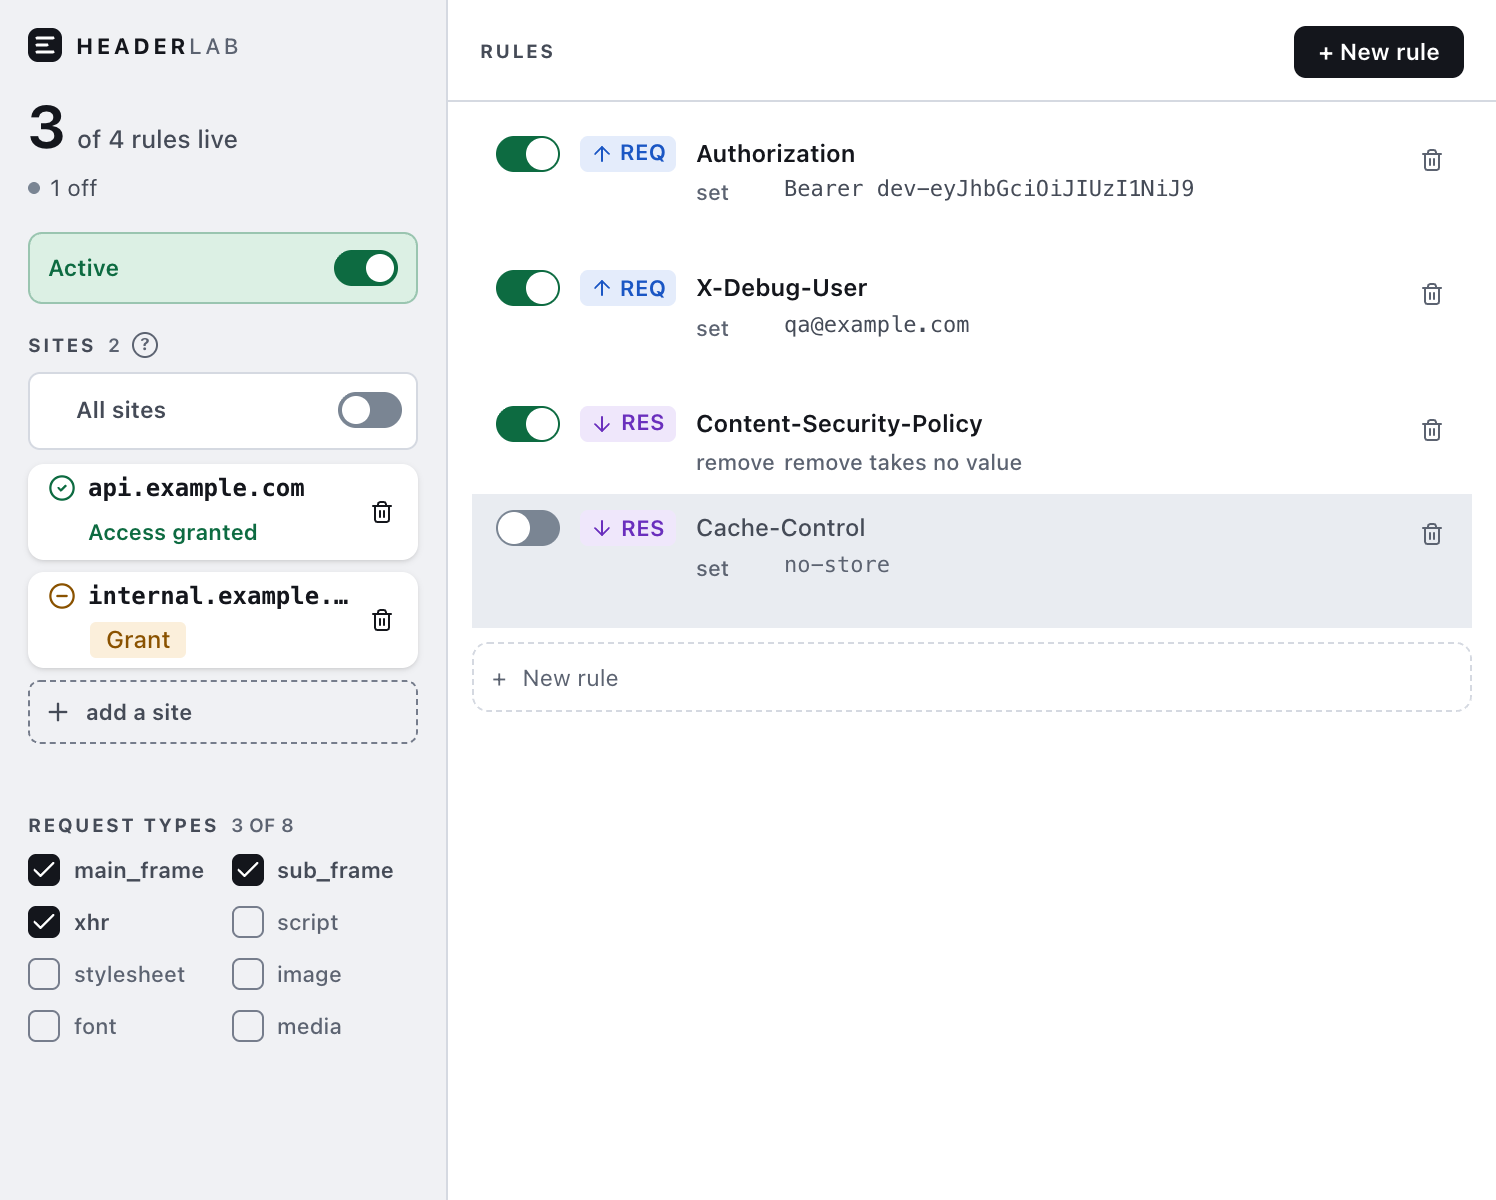
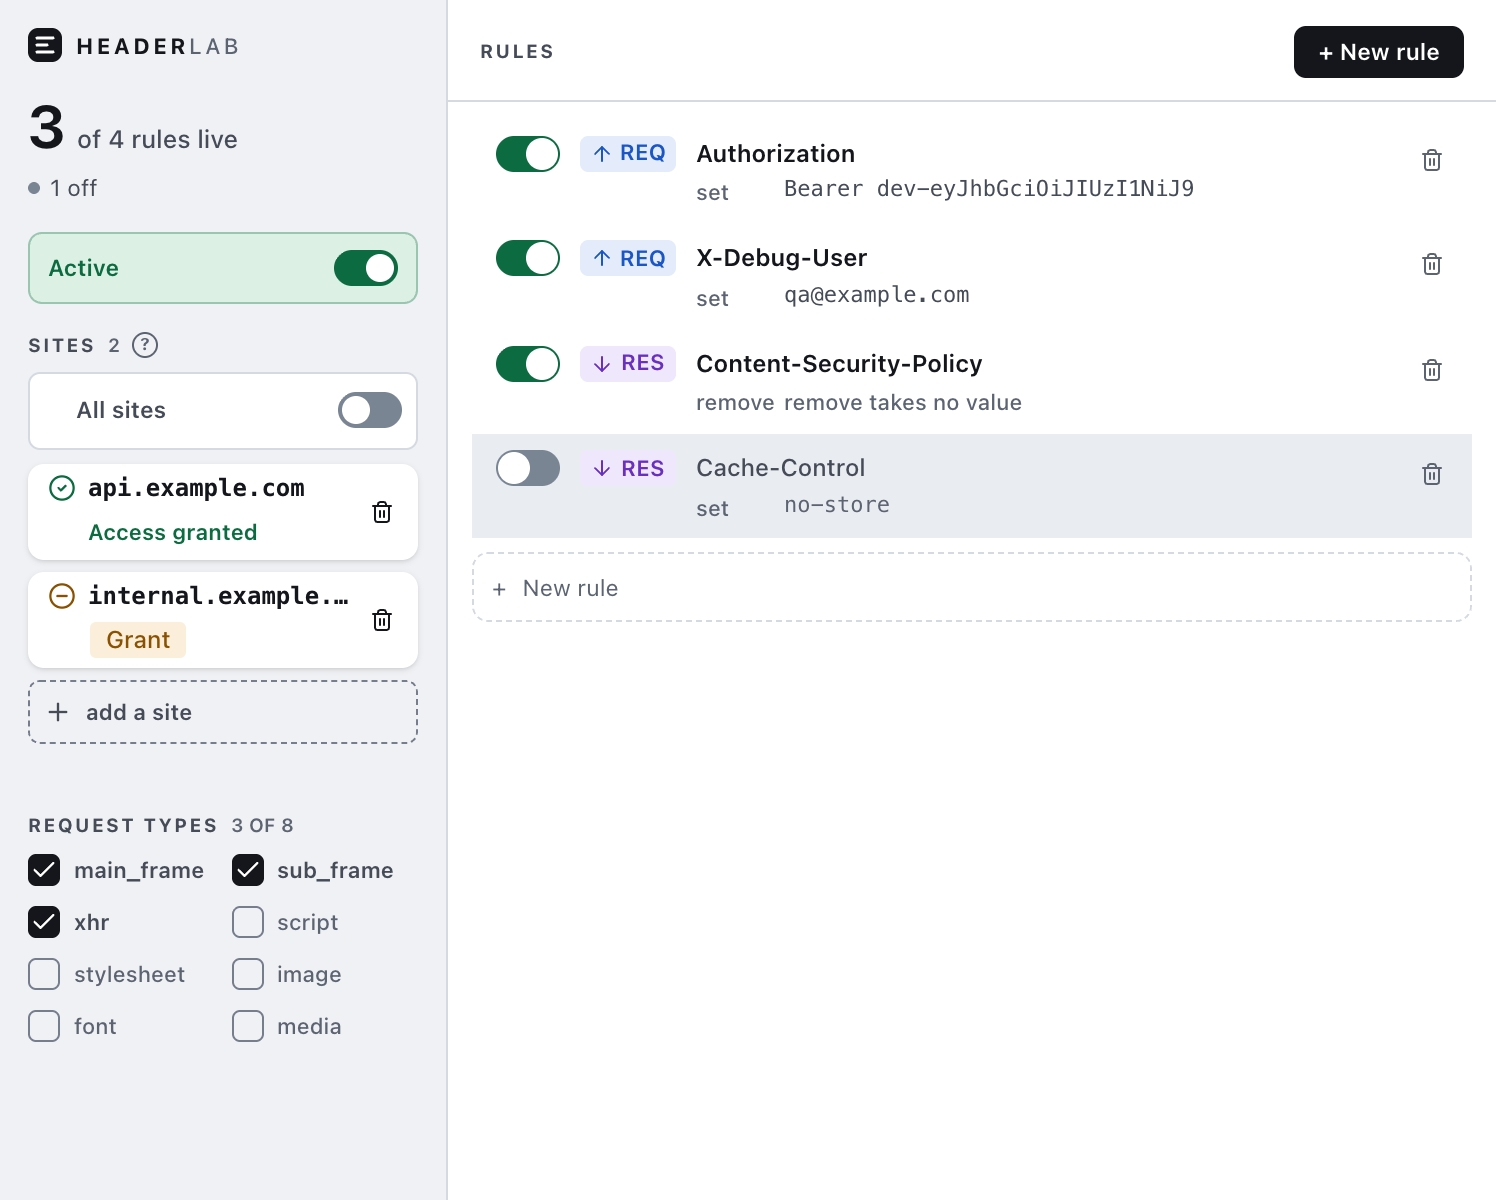
fix: 값 필드의 min-height 바닥을 걷어낸다
지난 커밋에서 min-height: 30px 와 max-height: 96px 를 둘 다 예전 필드에서
그대로 되살렸다 — "둘 다 복원하라"는 지시를 문자 그대로 따른 결과였다.
그런데 96px 캡은 오너의 줄바꿈 판단을 직접 섬기지만(감싸다가 어느 선을
넘으면 안에서 스크롤), 30px 바닥은 그 판단과 무관하다 — 옛 필드의 패딩
있는 12px 박스를 위한 숫자였고, 지금의 테두리·패딩 없는 컴팩트 레이아웃엔
지킬 게 없다. 실측이 그 차이를 드러냈다: 짧은 값 행이 51.5px 에서 66.5px
로 늘어났는데, 대부분의 행이 짧은 값을 가지므로 오너가 이번 리디자인
전체에서 고른 조밀함과 정반대 방향의 비용이었다.

min-h-[30px] 만 지운다. max-h-24 와 overflow-y-auto 는 그대로 둔다. 빈
값의 클릭 타깃은 높이가 아니라 min-w-0 flex-1 이 이미 주는 ~250px 너비가
쥐고 있어 바닥이 없어도 좁아지지 않는다.

재보니 짧은 행은 정확히 51.5px 로 돌아왔다 — 라운드 2 가 처음 쟀던 값과
같다 — 긴 값(536자 CSP, 캡 있음)은 132.5px 로 그대로다. 바닥만 없앤 게
맞다는 뜻이다.

Claude-Session: https://claude.ai/code/session_01AoJqsjMCtVNteQQZDrLcrG

Changed region(s): [[0.3075, 0.185, 0.6765, 0.4933], [0.3382, 0.555, 0.3997, 0.5858], [0.9532, 0.2158, 0.984, 0.2467]]

diff --git a/components/RuleCard.tsx b/components/RuleCard.tsx
@@ -179,13 +179,25 @@ export function RuleCard({ rule, diagnostics, onPatch, onDelete, autoFocus }: Ru
                 aria-label="Header value"
                 data-testid="rule-value"
                 rows={1}
-                /* min/max restored from the pre-mockup field (69bf230) — the
-                   owner's ruling was "값이 감싸지게(예전 방식)", the previous
-                   way, which capped growth and let a very long value scroll
-                   inside itself rather than growing without bound. Dropping
-                   the cap was found in review: a realistic 536-character
-                   value made one row 232.5px tall, 42% of the popup's own
-                   height. `max-h-24` (96px) is `.hl-hval`'s old value.
+                /* `max-h-24` restored from the pre-mockup field (69bf230) —
+                   the owner's ruling was "값이 감싸지게(예전 방식)", the
+                   previous way, which capped growth and let a very long
+                   value scroll inside itself rather than growing without
+                   bound. Dropping the cap was found in review: a realistic
+                   536-character value made one row 232.5px tall, 42% of the
+                   popup's own height. `max-h-24` (96px) is `.hl-hval`'s old
+                   value.
+
+                   The old field's `min-height: 30px` did NOT come back with
+                   it. That number served the old field's padded, bordered,
+                   12px box — this one has neither, so a floor buys nothing
+                   an empty single line doesn't already have (still a real,
+                   ~250px-wide click target via `min-w-0 flex-1`) and costs
+                   real, visible space on every short row: measured 51.5px
+                   → 66.5px with it, on rows that are most of the list, in
+                   the direction opposite the density the owner chose this
+                   whole redesign for. Found in review, corrected the same
+                   round.
 
                    Once a value is long enough to hit the cap, the textarea
                    becomes a genuine scroll container of its own —
@@ -197,7 +209,7 @@ export function RuleCard({ rule, diagnostics, onPatch, onDelete, autoFocus }: Ru
                    never fires there, but Task 8/9 — which owns that
                    assertion — should know the reason going in rather than
                    find the symptom. */
-                className="min-w-0 max-h-24 min-h-[30px] flex-1 resize-none overflow-y-auto rounded-none border-0 bg-transparent p-0 font-mono text-[11px] leading-[14px] font-medium text-foreground-2 shadow-none outline-none [field-sizing:content] [overflow-wrap:anywhere] placeholder:font-sans placeholder:text-[11px] placeholder:font-medium placeholder:text-muted-foreground focus-visible:ring-0 group-data-off/rule:text-muted-foreground"
+                className="min-w-0 max-h-24 flex-1 resize-none overflow-y-auto rounded-none border-0 bg-transparent p-0 font-mono text-[11px] leading-[14px] font-medium text-foreground-2 shadow-none outline-none [field-sizing:content] [overflow-wrap:anywhere] placeholder:font-sans placeholder:text-[11px] placeholder:font-medium placeholder:text-muted-foreground focus-visible:ring-0 group-data-off/rule:text-muted-foreground"
                 placeholder="value"
                 value={value.draft}
                 onChange={(e) => value.setDraft(e.target.value)}
